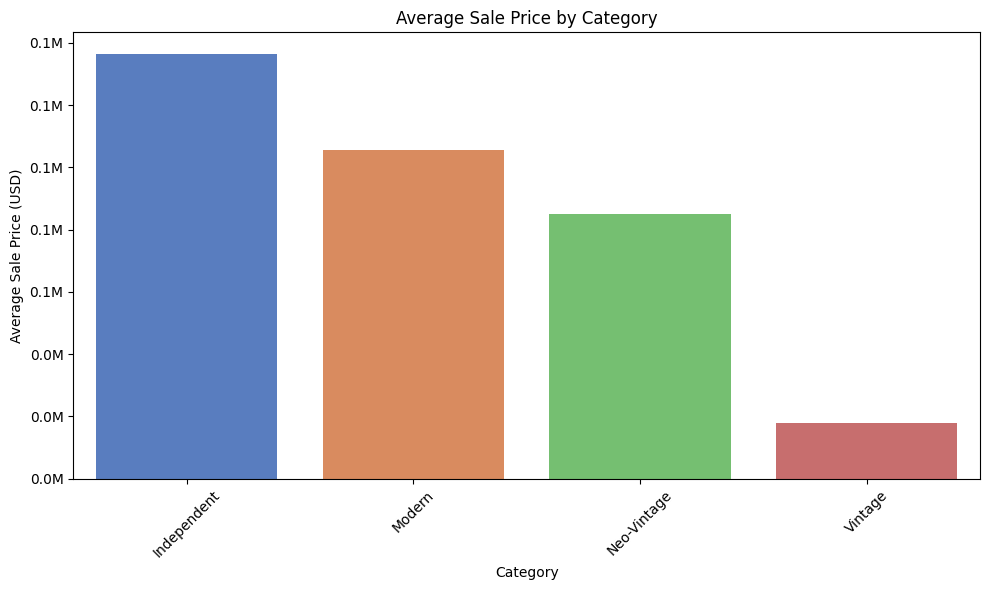
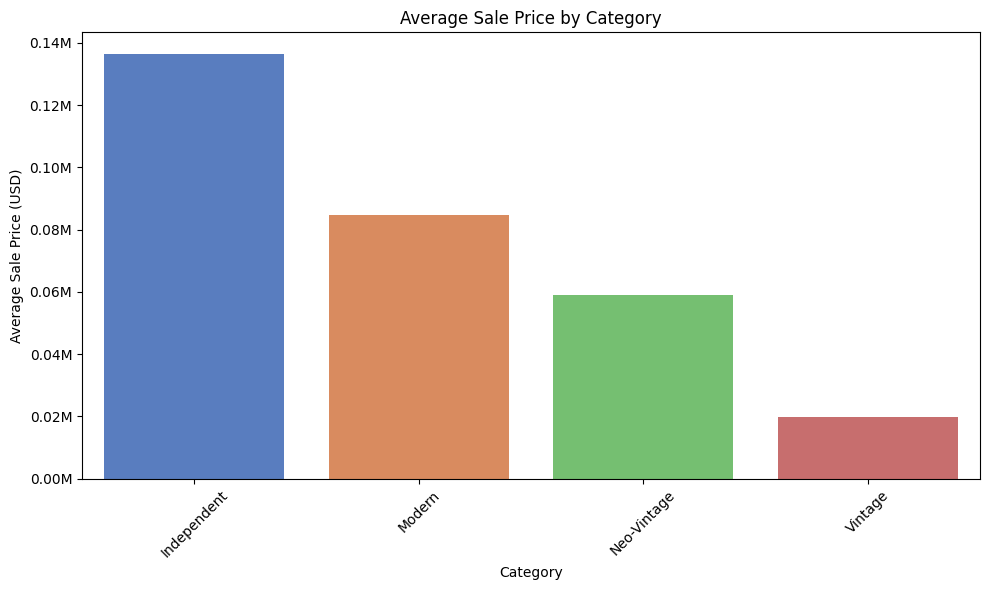
renamed image

diff --git a/docs/index.html b/docs/index.html
@@ -130,10 +130,10 @@
                         <div class="text-section">
                             <p class="analysis-text">
                                 <h3>Modern Dominance</h3>
-                                <p>The chart clearly shows that <strong>Modern</strong> watches have an overwhelming lead in total sales, accounting for nearly all of the total revenue at over <strong>$20 million USD</strong>. This can be attributed to the widespread availability and popularity of modern watches, which tend to attract a broader audience.</p>
+                                <p><strong>Modern</strong> watches had an overwhelming lead in total sales, accounting for nearly all of the total revenue at over <strong>$20 million</strong>. This can be attributed to the widespread availability and popularity of modern watches, which tend to attract a broader audience.</p>
                                 
                                 <h4>Independent Watches</h4>
-                                <p>In contrast, <strong>Independent</strong> watchmakers, while contributing significantly less to total sales, lead the chart for <strong>Average Sale Price</strong> by category at <strong>$120,000 USD</strong> per watch. This indicates that collectors value the rarity, craftsmanship, and exclusivity of these timepieces.</p>
+                                <p>In contrast, <strong>Independent</strong> watchmakers, while contributing significantly less to total sales, lead the chart for <strong>Average Sale Price</strong> by category at over <strong>$130,000</strong> per watch. This indicates that collectors value the rarity, craftsmanship, and exclusivity of these timepieces.</p>
                                 
                                 <h4>Key Insights from the Data:</h4>
                                 <ul>
